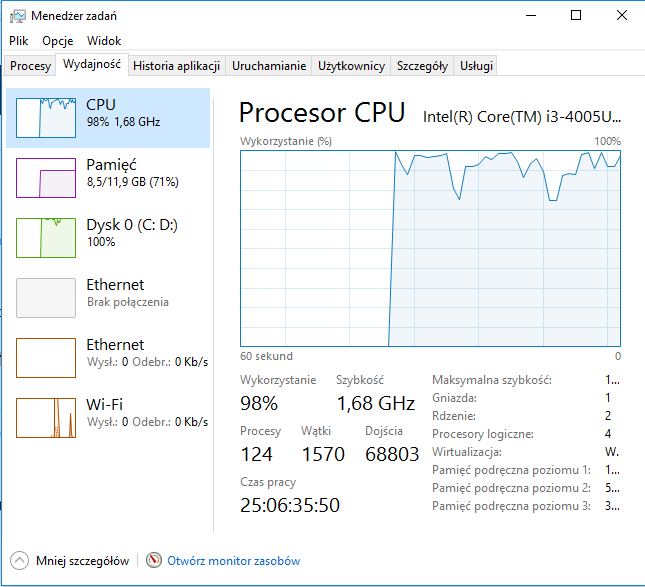
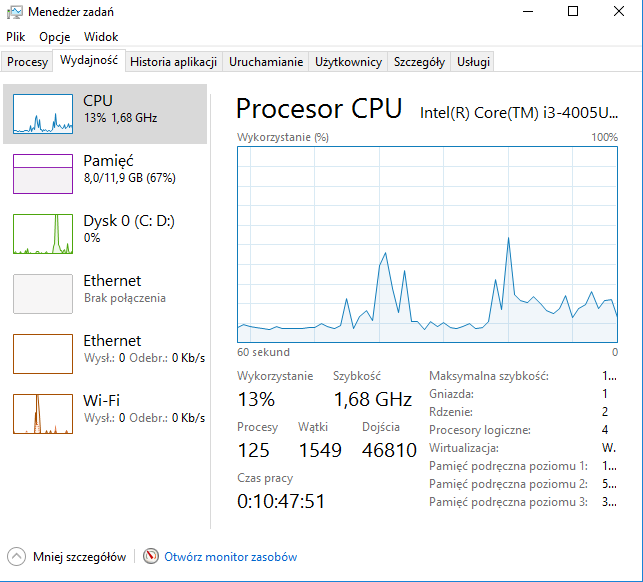
poprawiono dane w zad 2 i opis

diff --git a/docs/pages/zad2.html b/docs/pages/zad2.html
@@ -28,14 +28,12 @@
 				<li><a href="#iiko">Instalacja i konfiguracja oprogramowania</a></li>
 				<ul>
 					<li><a href="#iiko1">mongoDB</a></li>
-					<li><a href="#iiko2">jq</a></li>
 				</ul>
 				<li><a href="#mdb-lm">mongoDB (Łukasz Mielewczyk)</a></li>
 				<ul>
-					<li><a href="#mdb-lm1">przekształcenie danych</a></li>
-					<li><a href="#mdb-lm2">import danych</a></li>
-					<li><a href="#mdb-lm3">przykładowy rekord</a></li>
-					<li><a href="#mdb-lm4">sortowanie</a></li>
+					<li><a href="#mdb-lm1">import danych</a></li>
+					<li><a href="#mdb-lm2">przykładowy rekord</a></li>
+					<li><a href="#mdb-lm3">sortowanie</a></li>
 				</ul>
 				<li><a href="#mdb-mb">mongoDB (Marek Białousz)</a></li>
 				<ul>
@@ -44,12 +42,12 @@
 		</div>
 		<h2 id="iod">Informacje o danych</h2>	
 		<p class="description-data">
-			Dane zawierają najnowsze (luty 2017 r.) dane z katalogu pocztowego służb zdrowia w Wielkiej Brytanii.
-			<a href="https://data.gov.uk/dataset/nhs-postcode-directory-latest-centroids" target="_blank">Źródło</a>.
+			Dane zawierają informacje o transakcjach.
+			<a href="https://dl.dropboxusercontent.com/u/15056258/mongodb/trades.json" download>Pobierz</a>.
 			</br>
-			Rozmiar: 2 GB
+			Rozmiar: 230 MB
 			</br>
-			Ilość: 2593752
+			Ilość: 1000001
 		</p>
 		</br>
 		<h2 id="iiko">Instalacja i konfiguracja oprogramowania</h2>
@@ -65,72 +63,14 @@ mongod
 				</code>
 			</div>
 		</p>
-		<h3 id="iiko2">jq</h3>
-		<p>
-			Narzędzie jq służy do przekształcenia danych w taki sposób, aby otrzymać dane, pola które nas interesują.
-			</br>
-			Aby zainstalować jq wstępnie trzeba zaisntalować framework Chocolatey.
-			Uruchamiamy konsolę <i>cmd</i> <b>z uprawnieniami administratora</b> oraz wydajemy polecenie:
-			<div class="command">
-				<code>
-@powershell -NoProfile -ExecutionPolicy Bypass -Command "iex ((New-Object System.Net.WebClient).DownloadString('https://chocolatey.org/install.ps1'))" && SET "PATH=%PATH%;%ALLUSERSPROFILE%\chocolatey\bin"
-				</code>
-			</div>
-			Następnie, aby zaintalować jq należy wydać polecenie:
-			<div class="command">
-				<code>
-chocolatey install jq
-				</code>
-			</div>
-			Więcej na:
-			<ul>
-				<li><a href = "https://chocolatey.org/">chocolatey</a></li>
-				<li><a href = "https://stedolan.github.io/jq/">jq</a></li>
-			</ul>
-		</p>
 		</br>
 		<h2 id="mdb-lm">mongoDB (Łukasz Mielewczyk)</h2>
-		<h3 id="mdb-lm1">przekształcenie danych</h3>			
-		<p>
-			Ze <a href="https://data.gov.uk/dataset/nhs-postcode-directory-latest-centroids" target="_blank">strony</a> pobieramy plik z rozszeżeniem geojson.
-			</br>
-			Musimy "wyłuskać" dane które zawierają współrzędne geograficzne.
-			</br>
-			Plik z danymi, który pobrałem wymagał zmiany nazwy gdyż nie może zawierać znaków takich jak: _. Zamieniłem nazwę na map.geojson
-			</br>
-			W moim przypadku interesujące pole to features, więc aby to zrobić w <i>cmd</i> wydajemy polecenie:
-			<div class="command">
-				<code>
-jq ".features" map.geojson > mapPom.geojson
-				</code>
-			</div>
-			Podczas wykonywania tej operacji doszło do zużycia zasobów (ilustracja niżej). 
-			</br></br>
-			<div class="text-center">
-				<img src="../images/screen1.PNG" height="400em" width="500em">
-			</div>
-			<div class="description-image">Procesor podczas przekształcania danych</div>
-			</br></br>
-			<div class="text-center">
-				<img src="../images/screen2.PNG" height="400em" width="500em">
-			</div>
-			<div class="description-image">Pamięć podczas przekształcania danych</div>
-			</br></br>
-			<div class="text-center">
-				<img src="../images/screen3.PNG" height="400em" width="500em">
-			</div>
-			<div class="description-image">Dysk podczas przekształcania danych</div>
-			</br></br>
-			Wykonanie trwało ok. 35 minut.
-			</br></br>
-		</p>
-		</br>
-		<h3 id="mdb-lm2">import danych</h3>
+		<h3 id="mdb-lm1">import danych</h3>
 		<p>
 			Następnie aby zaimportwać z pliku do bazy danych (oczywiście baza danych musi być uruchomiona) należy wydać w <i>cmd</i> polecenie:
 			<div class="command">
 				<code>
-mongoimport --db test --collection test --jsonArray < mapPom.geojson
+mongoimport --db test --collection test --file trades.json
 				</code>
 			</div>
 			Również i import powodował duże zużycie zasobów (ilustracja niżej):
@@ -150,13 +90,13 @@ mongoimport --db test --collection test --jsonArray < mapPom.geojson
 			</div>
 			<div class="description-image">Dysk podczas importu danych do mongoDB</div>
 			</br></br>
-			Wykonanie trwało ok. 10 minut.
+			Wykonanie trwało ok. 2 minut.
 			</br>
-			Ostatecznie pojawił się komunikat: "imported 2593752 documents"
+			Ostatecznie pojawił się komunikat: "imported 1000001 documents"
 			</br></br>
 		</p>
 		</br>
-		<h3 id="mdb-lm3">przykładowe pole</h3>
+		<h3 id="mdb-lm2">przykładowe pole</h3>
 		<p>
 			Ze <a href="https://data.gov.uk/dataset/nhs-postcode-directory-latest-centroids" target="_blank">strony<a/>
 			ściagamy plik z rozszeżeniem <i>geojson</i>.
@@ -177,95 +117,45 @@ db.test.findOne()
 			<div class="code">
 				<pre>
 					<code>
-"_id" : ObjectId("58df73b89a55fcf34cdf702b"),
-"type" : "Feature",
-"properties" : {
-	"objectid" : 2002,
-	"pcd2" : "AB1  7FG",
-	"pcds" : "AB1 7FG",
-	"dointr" : "199405",
-	"doterm" : "199606",
-	"oseast100m" : "3917",
-	"osnrth100m" : "08047",
-	"oscty" : "S99999999",
-	"odslaua" : "S92",
-	"oslaua" : "S12000033",
-	"osward" : "S13002486",
-	"usertype" : "0",
-	"osgrdind" : "1",
-	"ctry" : "S92000003",
-	"oshlthau" : "SN9",
-	"gor" : "S99999999",
-	"oldha" : "SN9",
-	"nhscr" : "S92",
-	"ccg" : "012",
-	"psed" : "99ZZ0099",
-	"cened" : "ZZ0099",
-	"edind" : "9",
-	"ward98" : "00QA38",
-	"oa01" : "S00001596",
-	"nhsrg" : "S92",
-	"hro" : "S00",
-	"lsoa01" : "S01000067",
-	"ur01ind" : "1",
-	"msoa01" : "S02000013",
-	"cannet" : "Z99",
-	"scn" : "Z99",
-	"oshaprev" : "SN9",
-	"oldpct" : "X98",
-	"oldhro" : "S00",
-	"pcon" : "S14000002",
-	"canreg" : "Z9999",
-	"pct" : "012",
-	"oseast1m" : "391763",
-	"osnrth1m" : "0804797",
-	"oa11" : "S00090654",
-	"lsoa11" : "S01006545",
-	"msoa11" : "S02001242"
-     },
-"geometry" : {
-	"type" : "Point",
-	"coordinates" : [
-		-2.1377206301181557,
-		57.133993966719444
-	]
+{
+        "_id" : ObjectId("5597a1617df886b33f839f9a"),
+        "details" : {
+                "asks" : [
+                        110.07,
+                        110.12,
+                        110.3
+                ],
+                "bids" : [
+                        109.9,
+                        109.88,
+                        109.7,
+                        109.5
+                ],
+                "lag" : 0,
+                "system" : "abc"
+        },
+        "price" : 120,
+        "shares" : 200,
+        "ticker" : "abcd",
+        "time" : ISODate("2012-03-02T22:00:00Z")
 }
 					</code>
 				</pre>
 			</div>
-		<h3 id="mdb-lm4">sortowanie</h3>
+		<h3 id="mdb-lm3">sortowanie</h3>
 		<p>
-			Aby dokonać sortowania malejącego wg pola <i>canreg</i>, należy wydać polecenie
-			(należy ustawić limit wyświetlania danych, gdyż mongoDB nie radzi sobie z wyświetleniem dużych danych):
+			Wyświetlimy pierwszych 10 najdroższych transakcji, polecenie:
 			<div class="command">
 				<code>
-db.test.aggregate( [ { $sort: { canreg : -1 } }, { $limit: 100 } ] )
+db.test.aggregate( [ { $sort: { price : -1 } }, { $limit: 10 } ] )
 				</code>
 			</div>
-			Sortowanie powodowało dość duże zużycie zasobów (ilustracja niżej):
+			Wykonanie trwało ok. 30 sekund.
+			</br></br>
+			Ostatecznie uzyskano:
 			</br></br>
 			<div class="text-center">
-				<img src="../images/screen19.PNG" height="400em" width="500em">
-			</div>
-			<div class="description-image">Procesor podczas sortowania danych, mongoDB</div>
-			</br></br>
-			<div class="text-center">
-				<img src="../images/screen20.PNG" height="400em" width="500em">
-			</div>
-			<div class="description-image">Pamięć podczas sortowania danych, mongoDB</div>
-			</br></br>
-			<div class="text-center">
-				<img src="../images/screen21.PNG" height="400em" width="500em">
-			</div>
-			<div class="description-image">Dysk podczas sortowania danych, mongoDB</div>
-			</br></br>
-			Wykonanie trwało ok. 5 minut.
-			</br></br>
-			Ostatecznie zostało wyświetlonych 100 wierszy posortowanych malejąco wg <i>canreg</i>.
-			Ilustracja ostatniego wiersza:
-			</br></br>
-			<div class="text-center">
-				<img src="../images/screen22.PNG" height="150em" width="1200em">
+				<img src="../images/screen22.PNG" height="250em" width="1200em">
 			</div>
 			<div class="description-image">Wynik sortowania w MongoDB (ostanitnia dana)</div>
 		</p>
